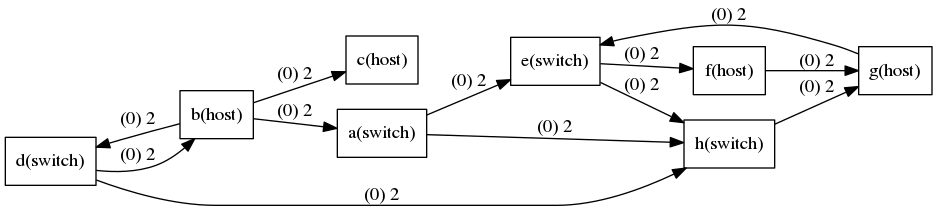
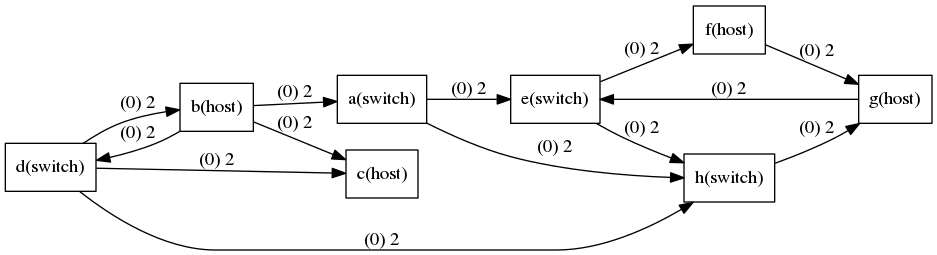
Add bfs and fix dfs bugs

diff --git a/example/api/bfs.cc b/example/api/bfs.cc
@@ -1,6 +1,7 @@
 #include <algorithm>
 #include <iostream>
 #include <unistd.h>
+#include <queue>
 #include <map>
 #include "network_manager.h"
 #include "gplot.h"
@@ -11,10 +12,11 @@ using namespace std;
 // create NetworkManager first
 NetworkManager *nm = new NetworkManager();
 map<string, vector<Edge *>> adv;
-vector<Edge *> dfs_paths;
+vector<Edge *> bfs_paths;
 vector<Vertex *> existed_vertices;
+queue<Edge *> bfs_search;
 
-void dfs(string src);
+void bfs(string src);
 
 int main(int argc, char** argv){
     // build basic topo
@@ -52,46 +54,49 @@ int main(int argc, char** argv){
         elist=elist->next;
     }
 
-    // DFS
-    // push this node into existed list
+    // BFS
     existed_vertices.push_back(adv["b"].at(0)->head);
-    dfs("b");
+    bfs("b");
+    while(!bfs_search.empty()){
+        bfs(bfs_search.front()->tail->name);
+        bfs_search.pop();
+    }
 
-    Edge *dfs_elist=NULL, *tmp=dfs_elist;
+    Edge *bfs_elist=NULL, *tmp=bfs_elist;
 
-    cout << "DFS: " << endl;
-    for(int i=0;i<dfs_paths.size();i++){
-        cout << dfs_paths.at(i)->head->name << "->" << dfs_paths.at(i)->tail->name << endl;
+    cout << "BFS: " << endl;
+    for(int i=0;i<bfs_paths.size();i++){
+        cout << bfs_paths.at(i)->head->name << "->" << bfs_paths.at(i)->tail->name << endl;
         if(tmp==NULL){
-            dfs_elist = new Edge(dfs_paths.at(i));
-            tmp = dfs_elist;
+            bfs_elist = new Edge(bfs_paths.at(i));
+            tmp = bfs_elist;
         } else {
-            tmp->next = new Edge(dfs_paths.at(i));
+            tmp->next = new Edge(bfs_paths.at(i));
             tmp = tmp->next;
         }
     }
 
     Gplot *gp = new Gplot();
-    gp->gp_add(dfs_elist);
+    gp->gp_add(bfs_elist);
     gp->gp_dump(true);
-    gp->gp_export("dfs");
+    gp->gp_export("bfs");
 
     return 0;
 }
 
-void dfs(string src){
+void bfs(string src){
     for(int i=0;i<adv[src].size();i++){
         // cout << adv[src].at(i)->head->name << "=>" << adv[src].at(i)->tail->name << endl;
-        // check edge is already existed or not
-        if(find(dfs_paths.begin(), dfs_paths.end(), adv[src].at(i))==dfs_paths.end()){
-            // check the tail is in the existed_vertices or not
+        // check the tail is in the existed_vertices or not
+        if(find(bfs_paths.begin(), bfs_paths.end(), adv[src].at(i))==bfs_paths.end()){
+            // if tail is not existed, then push into existed vertices
             if(find(existed_vertices.begin(), existed_vertices.end(), adv[src].at(i)->tail)==existed_vertices.end()){
-                // and push this edge into dfs result
-                dfs_paths.push_back(adv[src].at(i));
+                // and push this edge into bfs result
+                bfs_paths.push_back(adv[src].at(i));
                 // not existed, then push into existed
                 existed_vertices.push_back(adv[src].at(i)->tail);
-                // recursive
-                dfs(adv[src].at(i)->tail->name);
+                // push
+                bfs_search.push(adv[src].at(i));
             }
         }
     }

diff --git a/example/api/plot.cc b/example/api/plot.cc
@@ -29,6 +29,7 @@ int main(int argc, char** argv){
     nm->connect("b", "c");
     nm->connect("b", "d");
     nm->connect("d", "b");
+    nm->connect("d", "c");
     nm->connect("d", "h");
 
     nm->connect("e", "f");

diff --git a/README.md b/README.md
@@ -28,7 +28,8 @@ You can see the [example](example/):
 | **API: Path between 2 vertices** | Using API (`NetworkManager`, `Path`) to create network topology, and get the available paths between 2 selected vertices. | [2] | [path example code](example/api/path.cc) |
 | **API: Find Max-Flow** | Apply *Ford-Fulkerson Labeling Algorithm* on simplest graph, which present in the [first demo](example/stdin/simple_graph.png). | [2] | [max-flow example code](example/api/max-flow.cc) |
 | **API: Plot the Network Topology** | Using `Gplot` class to generate dotfile from your current network topology. (Export a dotfile, will need graphviz dependency to generate figure from this file.) | x | ![](example/api/plot.png) |
-| **API: DFS** | Apply depth-first search on the network present in the previous plotting example. ( Start point: `"a"` ) | x | ![](example/api/dfs.png) |
+| **API: DFS** | Apply *depth-first search algorithm* on the network present in the previous plotting example. ( Start point: `"b"` ) | x | ![](example/api/dfs.png) |
+| **API: BFS** | Apply *breadth-first search algorithm* on the network present in the previous plotting example. ( Start point: `"b"` ) | x | ![](example/api/bfs.png) |
 
 Command References:    
 [1]
